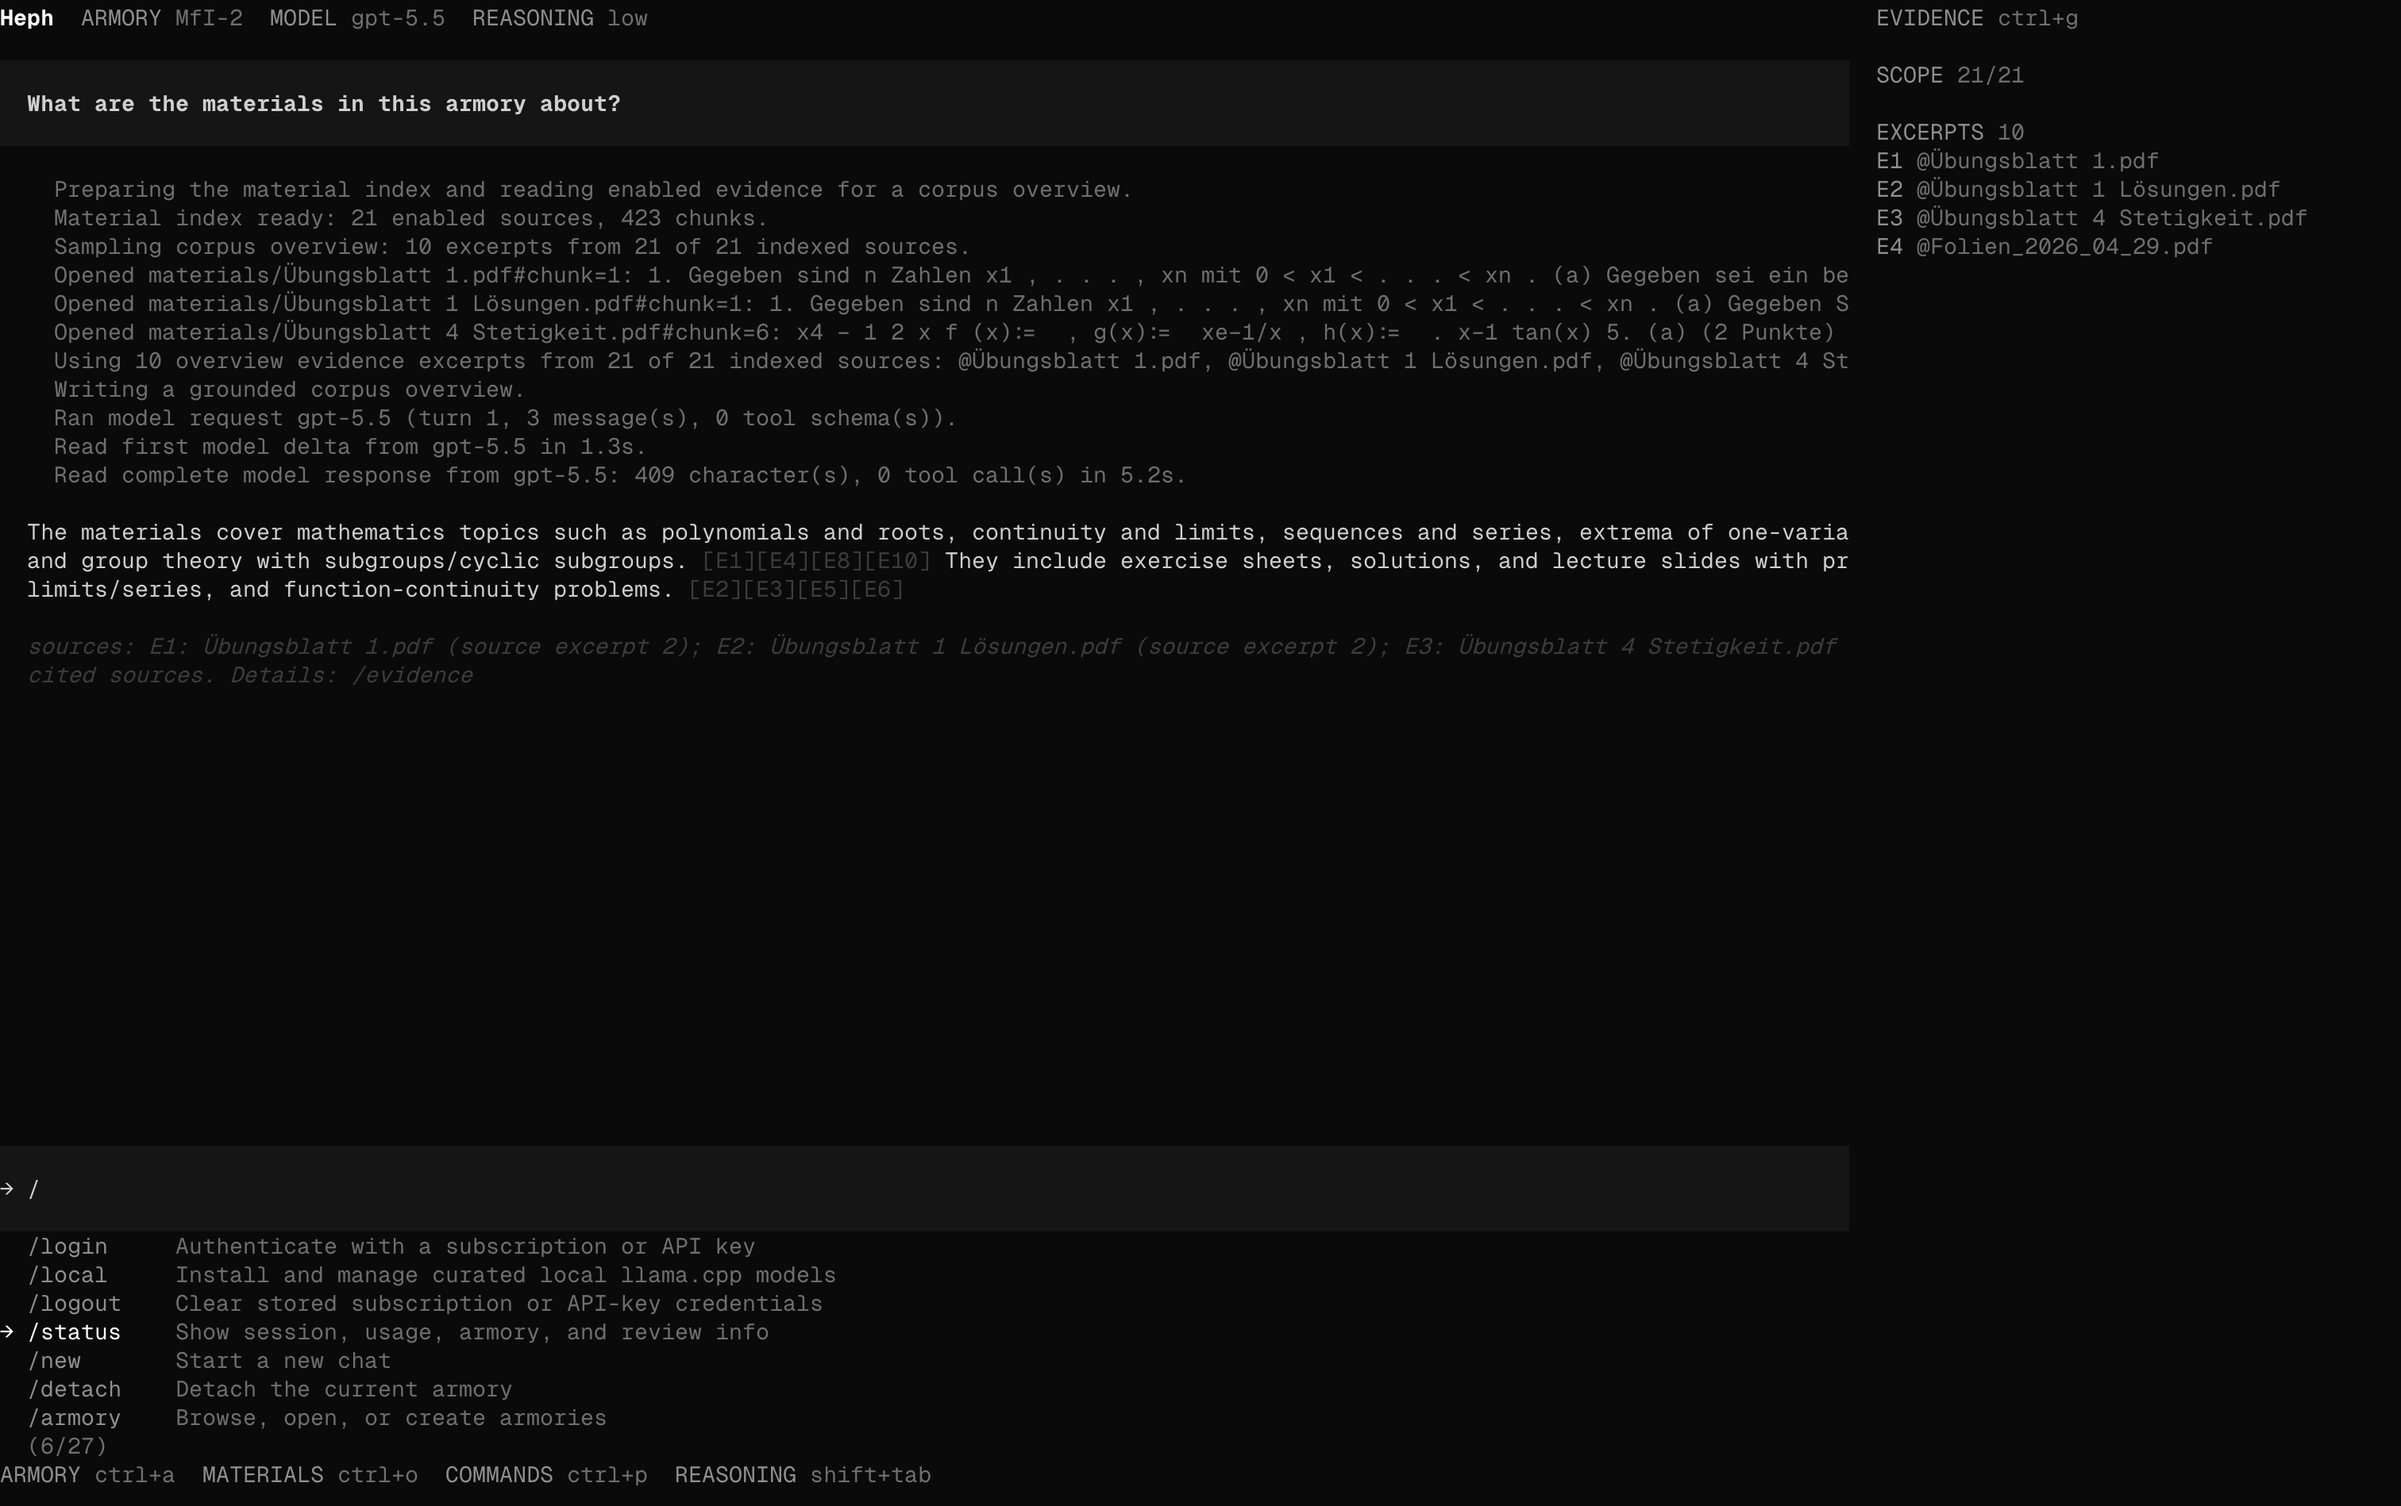
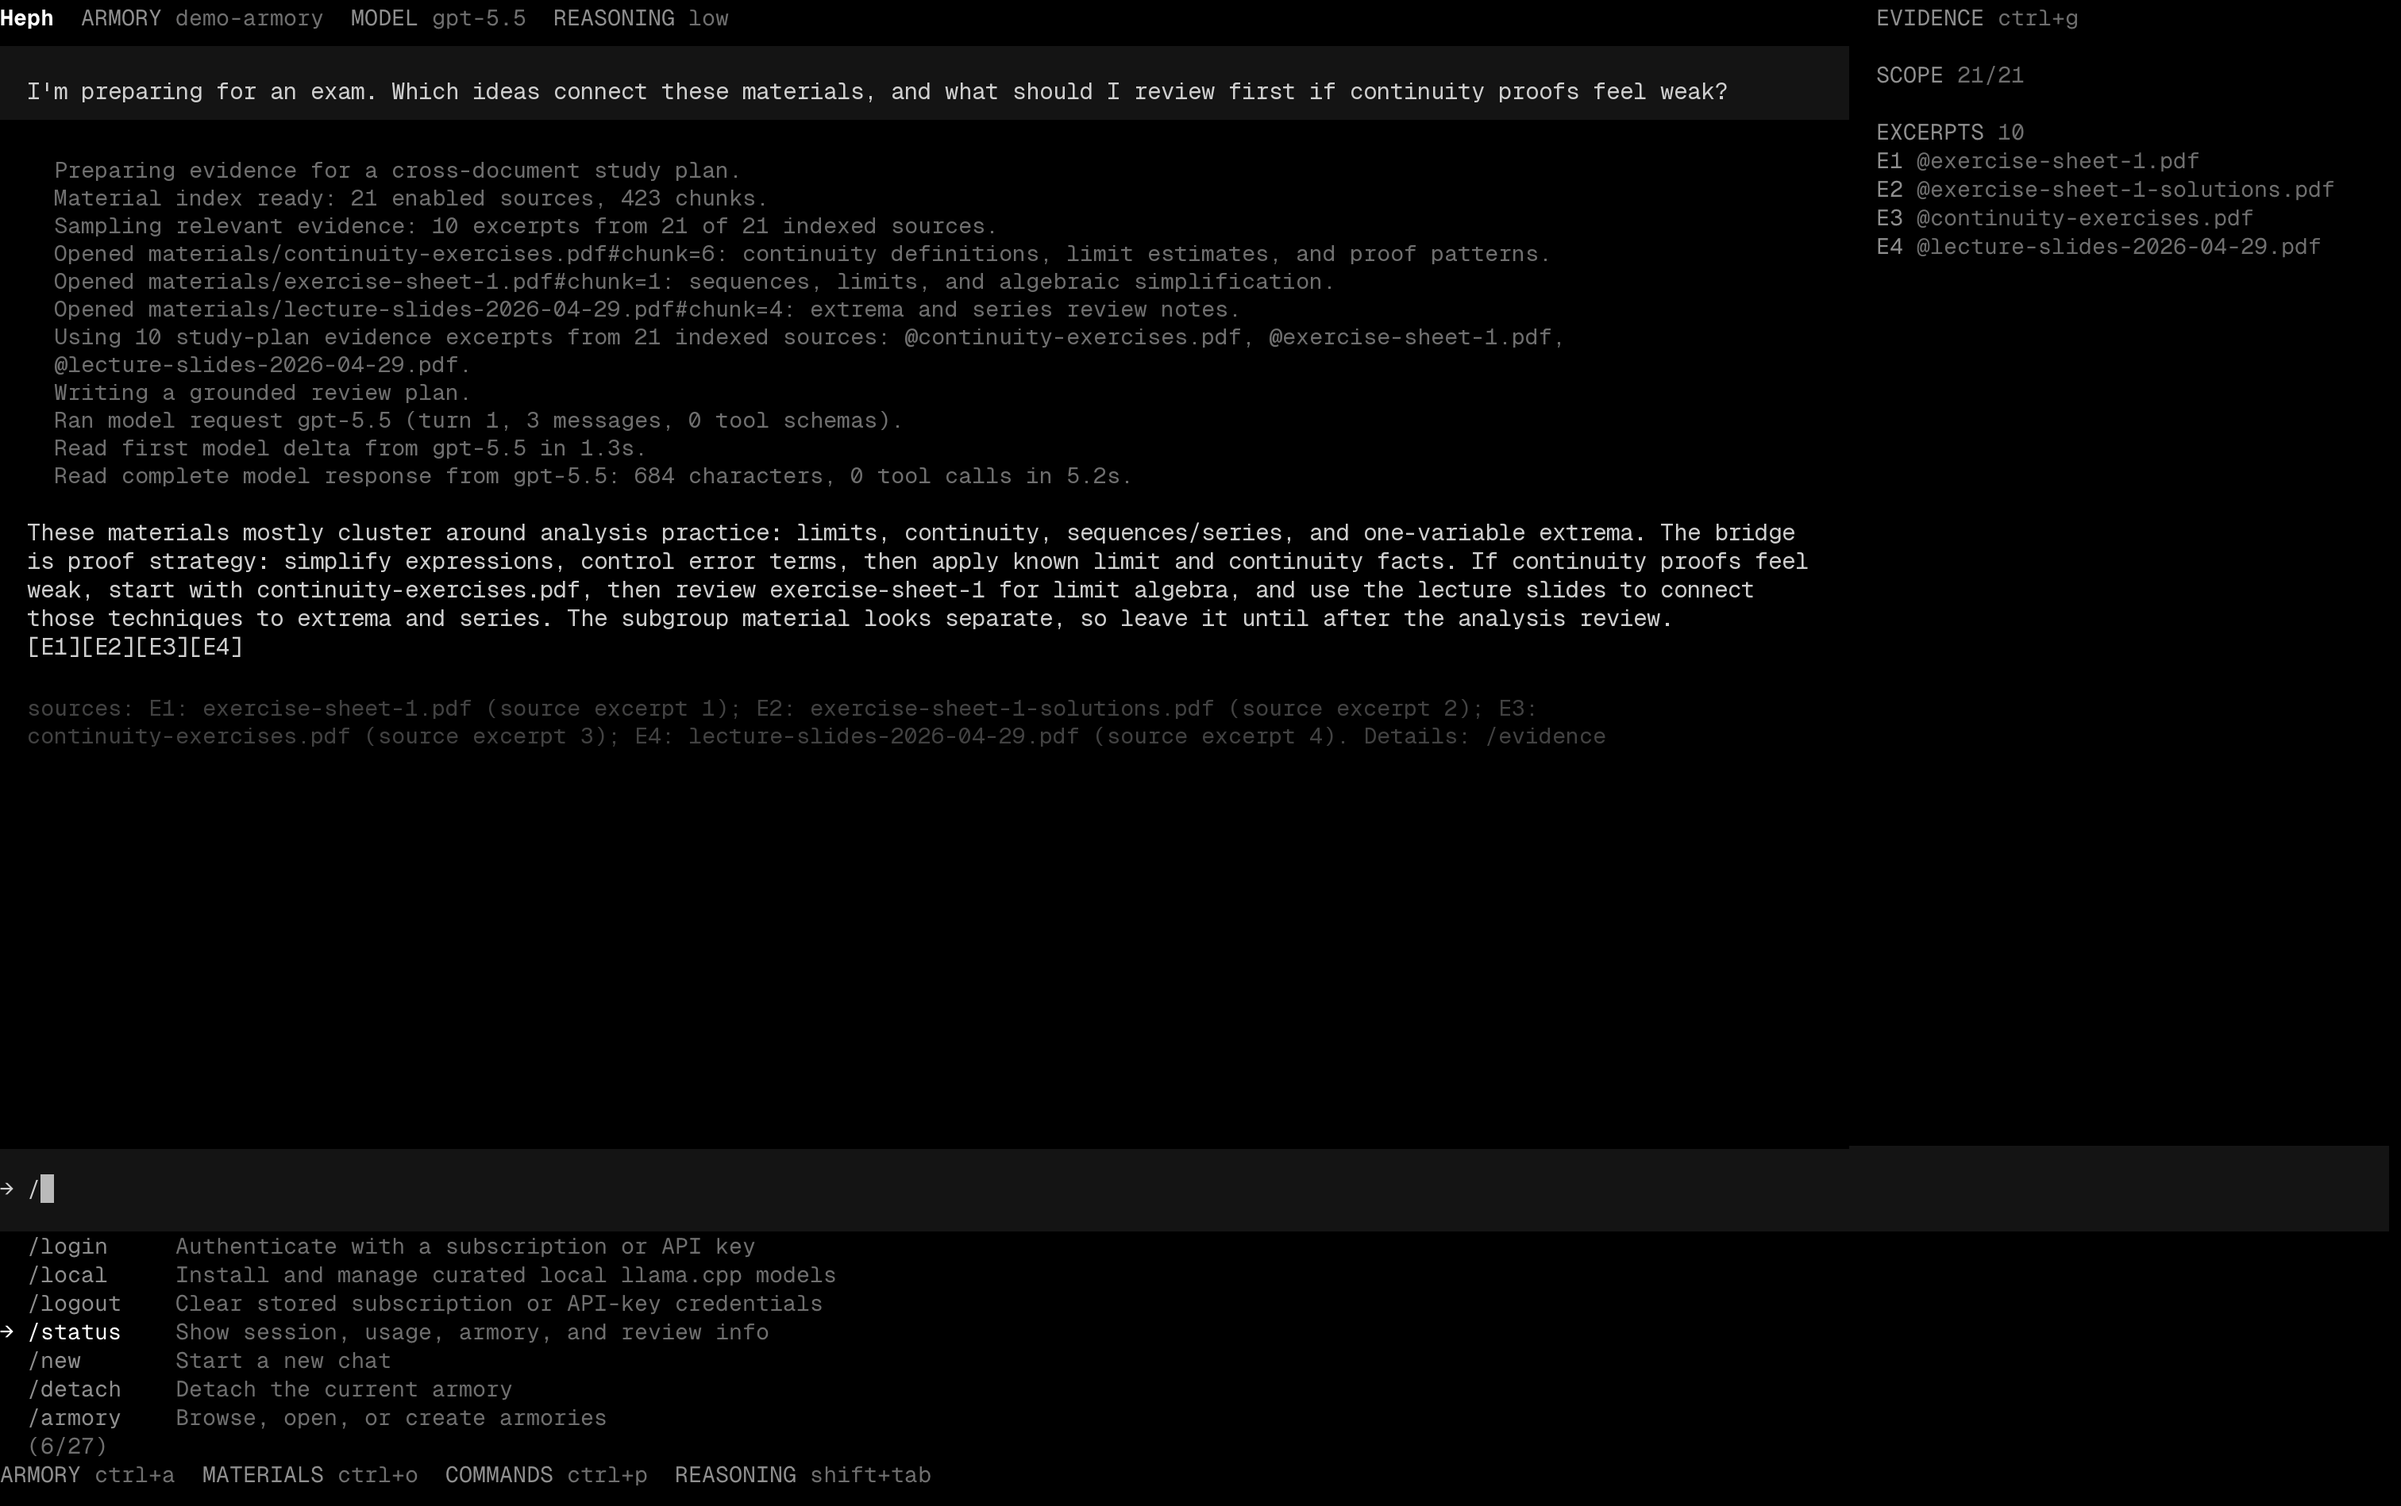
Fix TUI demo transcript wrapping

diff --git a/packages/interfaces/test/test_app_tui.py b/packages/interfaces/test/test_app_tui.py
@@ -1990,7 +1990,7 @@ def test_activity_trace_lines_are_muted_but_readable() -> None:
     asyncio.run(check_activity_style())
 
 
-def test_activity_trace_lines_clip_and_group_without_spacer() -> None:
+def test_activity_trace_lines_wrap_and_group_without_spacer() -> None:
     if tui.RichLog is None:
         pytest.skip("Textual is not installed")
 
@@ -2013,16 +2013,23 @@ def test_activity_trace_lines_clip_and_group_without_spacer() -> None:
 
             transcript = app.query_one("#transcript", tui.RichLog)
             rendered = [_strip_plain_text(line).rstrip() for line in transcript.lines]
-            activity_indexes = [
+            activity_indexes = [index for index, line in enumerate(rendered) if line.strip()]
+            first_line = next(
                 index
                 for index, line in enumerate(rendered)
-                if "Preparing the material index" in line or "Material index ready" in line
-            ]
+                if "Preparing the material index" in line
+            )
+            wrapped_line = next(
+                index for index, line in enumerate(rendered) if "for a corpus overview." in line
+            )
+            ready_line = next(
+                index for index, line in enumerate(rendered) if "Material index ready" in line
+            )
 
-            assert len(activity_indexes) == 2
-            assert activity_indexes[1] == activity_indexes[0] + 1
+            assert first_line < wrapped_line < ready_line
+            assert activity_indexes == list(range(activity_indexes[0], activity_indexes[-1] + 1))
             assert all(len(rendered[index]) <= transcript.size.width for index in activity_indexes)
-            assert rendered[activity_indexes[0]].endswith("...")
+            assert not any(rendered[index].endswith("...") for index in activity_indexes)
 
     asyncio.run(check_activity_layout())
 
@@ -6391,6 +6398,64 @@ def test_transcript_reflows_when_resize_crosses_sidebar_threshold() -> None:
             assert widest_after < widest_before
 
     asyncio.run(check_reflow())
+
+
+def test_demo_transcript_text_stays_inside_visible_shell_with_evidence_rail() -> None:
+    if tui.Input is None or tui.RichLog is None:
+        pytest.skip("Textual is not installed")
+
+    session = _plain_session()
+    session.armory_path = Path.home() / "demo-armory"
+    session.source_files = tuple(f"materials/source-{index}.pdf" for index in range(21))
+    session.last_turn_evidence = _turn_evidence_with_sources(
+        "materials/exercise-sheet-1.pdf",
+        "materials/exercise-sheet-1-solutions.pdf",
+        "materials/continuity-exercises.pdf",
+        "materials/lecture-slides-2026-04-29.pdf",
+        total_source_count=21,
+    )
+    app = tui.HephTui(
+        session,
+        tui._TuiRuntimeState(armory_home_shown=True),
+        tui.current_palette(),
+    )
+    typed_app = cast("TextualApp[None]", app)
+    activity = (
+        "    Using 10 overview evidence excerpts from 21 of 21 indexed sources: "
+        "@exercise-sheet-1.pdf, @exercise-sheet-1-solutions.pdf, "
+        "@continuity-exercises.pdf"
+    )
+    answer = (
+        "The materials cover mathematics topics such as polynomials and roots, continuity "
+        "and limits, sequences and series, extrema of one-variable calculus and group "
+        "theory with subgroups/cyclic subgroups. [E1][E4][E8][E10] They include exercise "
+        "sheets, solutions, and lecture slides with practice limits/series, and "
+        "function-continuity problems. [E2][E3][E5][E6]"
+    )
+
+    async def check_demo_layout() -> None:
+        async with typed_app.run_test(size=(252, 86)) as pilot:
+            await pilot.pause()
+            app._append_activity(activity)
+            app._append_assistant_reply(answer)
+            app._update_info_panel()
+            await pilot.pause()
+
+            log = app.query_one("#transcript", tui.RichLog)
+            info_panel = app.query_one("#info-panel")
+            screen_lines = _composited_screen_text(app).splitlines()
+
+            assert info_panel.styles.display == "block"
+            assert all(line.cell_length <= log.size.width for line in log.lines)
+            assert not any(line.rstrip().endswith("one-varia") for line in screen_lines)
+            assert not any(
+                line.rstrip().endswith("lecture slides with pr") for line in screen_lines
+            )
+            assert "one-variable calculus" in "\n".join(screen_lines)
+            assert "lecture slides with practice" in "\n".join(screen_lines)
+            assert "continuity-exercises.pdf" in "\n".join(screen_lines)
+
+    asyncio.run(check_demo_layout())
 
 
 def test_transcript_wrap_preserves_continuation_indent() -> None:

diff --git a/packages/interfaces/src/interfaces/tui/transcript.py b/packages/interfaces/src/interfaces/tui/transcript.py
@@ -311,7 +311,12 @@ def _list_marker_width(text: str) -> int:
     return 0
 
 
-def _wrap_transcript_plain_line(line: str, width: int) -> list[str]:
+def _wrap_transcript_plain_line(
+    line: str,
+    width: int,
+    *,
+    break_long_words: bool = False,
+) -> list[str]:
     if not line:
         return [""]
     wrapper = textwrap.TextWrapper(
@@ -319,18 +324,10 @@ def _wrap_transcript_plain_line(line: str, width: int) -> list[str]:
         subsequent_indent=_continuation_indent(line),
         replace_whitespace=False,
         drop_whitespace=True,
-        break_long_words=False,
+        break_long_words=break_long_words,
         break_on_hyphens=False,
     )
     return wrapper.wrap(line) or [line]
-
-
-def _clip_transcript_plain_line(line: str, width: int) -> str:
-    if len(line) <= width:
-        return line
-    if width <= 3:
-        return "." * width
-    return f"{line[: width - 3].rstrip()}..."
 
 
 def _transcript_line_renderables(
@@ -339,25 +336,18 @@ def _transcript_line_renderables(
     width: int,
     style: _RichStyle | None = None,
     ansi: bool = False,
+    break_long_words: bool = False,
 ) -> list[object]:
     if ansi:
         return [_transcript_line_renderable(line, style=style, ansi=ansi)]
     return [
         _transcript_line_renderable(wrapped_line, style=style)
-        for wrapped_line in _wrap_transcript_plain_line(line, width)
+        for wrapped_line in _wrap_transcript_plain_line(
+            line,
+            width,
+            break_long_words=break_long_words,
+        )
     ]
-
-
-def _transcript_activity_renderable(
-    line: str,
-    *,
-    width: int,
-    style: _RichStyle,
-) -> object:
-    return _transcript_line_renderable(
-        _clip_transcript_plain_line(line, width),
-        style=style,
-    )
 
 
 def _panel_width(log: RichLog) -> int:
@@ -459,12 +449,14 @@ def _write_activity_entry(host: _TranscriptHost, log: RichLog, entry: TuiTranscr
     palette = current_palette()
     style = _RichStyle(color=palette.text_muted)
     for line in entry.content.splitlines() or [""]:
-        renderable = _transcript_activity_renderable(
+        renderables = _transcript_line_renderables(
             line,
             width=max(1, log.size.width - _TRANSCRIPT_HORIZONTAL_PADDING),
             style=style,
+            break_long_words=True,
         )
-        host._write_transcript_renderable(log, renderable)
+        for renderable in renderables:
+            host._write_transcript_renderable(log, renderable)
 
 
 def _write_plain_entry(host: _TranscriptHost, log: RichLog, entry: TuiTranscriptEntry) -> None:
